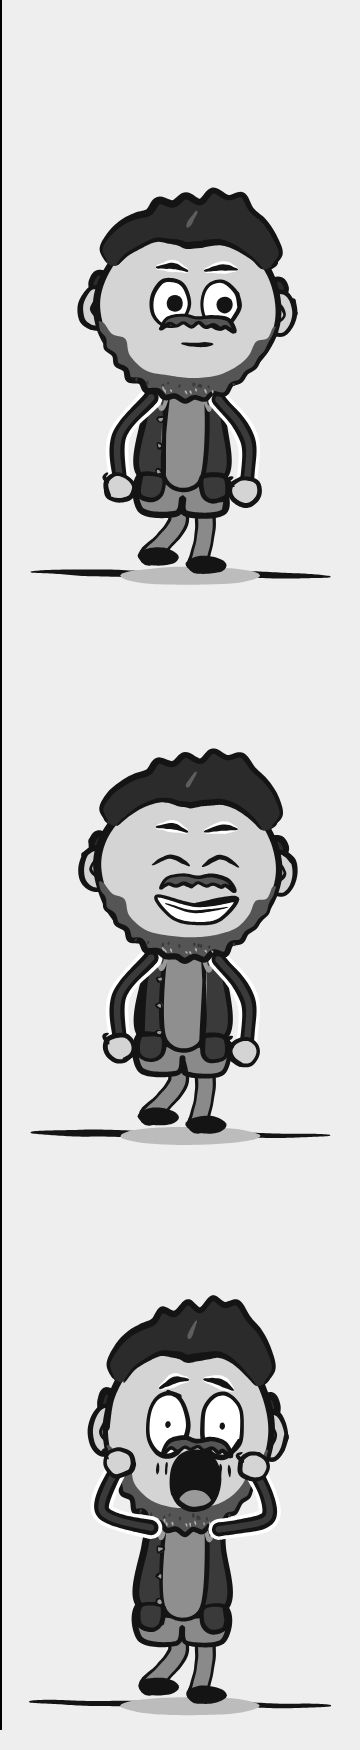
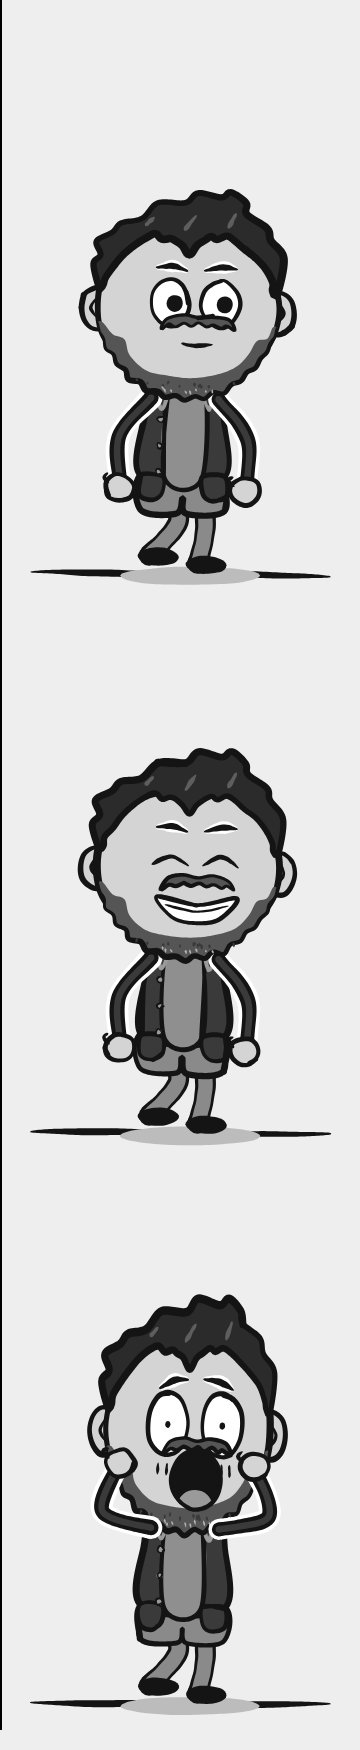
Squeex C: back to the fuller hair, shorter at the top corners, widow's peak
Built on the earlier fuller version: the top-left and top-right sit
lower and closer to the head, and the hairline dips to a widow's peak
in the middle. Only draft C's hair changed.

Claude-Session: https://claude.ai/code/session_01RKmGcx8q1V1rbfKyx6bNrn

diff --git a/web/cameos.js b/web/cameos.js
@@ -1119,37 +1119,17 @@ const Cameos = (() => {
     [[0.88, -0.24], [0.84, -0.5], [0.7, -0.66], [0.62, -0.56], [0.48, -0.74], [0.34, -0.6], [0.2, -0.78], [0.04, -0.62], [-0.12, -0.78],
      [-0.28, -0.62], [-0.44, -0.76], [-0.58, -0.58], [-0.7, -0.68], [-0.84, -0.5], [-0.88, -0.24]],
     [[[-0.5, -0.92], [-0.42, -1.1]], [[-0.08, -0.94], [0.0, -1.14]], [[0.34, -0.94], [0.44, -1.12]]]];
-  // C: receded crown of curls, growing out of sqBackHair (the band round the
-  // dome behind the head). The ends start on that band, so only the curly top
-  // and the hairline are inked and the crown never reads as a separate cap.
-  // The hairline is an M: deep bare notches over each brow, a small rounded lobe in the middle.
-  const SQ_CROWN = [[-0.91, -0.54], [-0.98, -0.7], [-0.88, -0.9], [-0.74, -1.04], [-0.6, -1.12], [-0.46, -1.18], [-0.36, -1.32],
-                    [-0.2, -1.28], [-0.06, -1.4], [0.1, -1.32], [0.24, -1.46], [0.4, -1.38], [0.56, -1.42], [0.68, -1.24],
-                    [0.82, -1.1], [0.94, -0.9], [1.0, -0.7], [0.91, -0.54]];
-  const SQ_LINE_M = [[0.8, -0.5], [0.68, -0.64], [0.52, -0.76], [0.36, -0.83], [0.22, -0.82], [0.12, -0.8], [0.05, -0.78],
-                     [0, -0.77], [-0.05, -0.78], [-0.12, -0.8], [-0.22, -0.82], [-0.36, -0.83], [-0.52, -0.76], [-0.68, -0.64], [-0.8, -0.5]];
-  const sqCrown = ctx => {
-    fill(ctx, hu([...SQ_CROWN, ...SQ_LINE_M]), SQ_HAIR, 1);
-    stroke(ctx, hu(SQ_CROWN), { w: 11, taper0: 0.3, taper1: 0.3 });   // the ends sit on the back band, outside the head outline
-    stroke(ctx, hu(SQ_LINE_M), { w: 11, taper0: 0.5, taper1: 0.5 });
-    stroke(ctx, hu([[-0.04, -1.0], [0.06, -1.2]]), { w: 7, taper0: 0.15, taper1: 0.35, color: SQ_LINE });
-  };
-  // C: hair behind the head, round the top of the dome under the crown and
-  // down to the ears at the sides. It breaks at the temples, so bare skin
-  // meets the head outline there.
-  const sqBackHair = ctx => {
-    for (const [a0, a1] of [[0.97, 1.12], [1.18, 1.82], [1.88, 2.03]]) {
-      const outer = [], inner = [], n = Math.round((a1 - a0) * 24);
-      for (let i = 0; i <= n; i++) {
-        const a = Math.PI * (a0 + (a1 - a0) * i / n), r = 1.07 + (i % 2 ? 0.035 : 0);   // a little curl in the edge
-        outer.push([Math.cos(a) * r, Math.sin(a) * r]);
-        inner.push([Math.cos(a) * 0.86, Math.sin(a) * 0.86]);
-      }
-      const band = hu([...outer, ...inner.reverse()]);
-      fill(ctx, band, SQ_HAIR, 1);
-      outline(ctx, band, { w: 10 });
-    }
-  };
+  const SQ_UP = [   // C: pushed up and back in three locks, the front one lifting off
+    // the corners sit low and close to the head (thinner hair there), the volume stays in the middle
+    [[-0.98, -0.2], [-1.06, -0.5], [-0.98, -0.62], [-1.03, -0.8], [-0.86, -0.92], [-0.76, -1.04], [-0.54, -1.1], [-0.36, -1.3],
+     [-0.06, -1.3], [0.08, -1.44], [0.34, -1.38], [0.44, -1.46], [0.6, -1.32], [0.62, -1.18], [0.84, -1.02], [0.88, -0.86], [1.03, -0.64], [0.98, -0.2]],
+    // receding hairline: a tall bare forehead with deep corners at the temples
+    // (cut back almost to the head outline, which they must stay inside), a
+    // widow's peak pointing down in the middle and thin hair down the sides
+    [[0.93, -0.24], [0.92, -0.34], [0.84, -0.5], [0.72, -0.64], [0.6, -0.74], [0.5, -0.84], [0.4, -0.9], [0.3, -0.86], [0.24, -0.9],
+     [0.16, -0.84], [0.08, -0.78], [0.0, -0.66], [-0.08, -0.78], [-0.16, -0.84], [-0.22, -0.86], [-0.3, -0.84], [-0.38, -0.91],
+     [-0.48, -0.86], [-0.6, -0.76], [-0.74, -0.62], [-0.84, -0.46], [-0.92, -0.34], [-0.93, -0.24]],
+    [[[-0.5, -1.0], [-0.4, -1.12]], [[-0.06, -0.96], [0.06, -1.16]], [[0.42, -1.0], [0.5, -1.2]]]];
   const sqHair = h => outlineHair(...h, SQ_HAIR, { lineColor: SQ_LINE });
   const sqEars = ctx => {
     for (const side of [-1, 1]) {
@@ -1218,7 +1198,7 @@ const Cameos = (() => {
       body: { legColor: '#8a8a8a',   // khakis, a mid grey so they don't read as bare legs, waist to ankle
         bottoms: (ctx, hipY) => { const b = [[-64, hipY - 12], [64, hipY - 12], [70, hipY + 50], [8, hipY + 56], [0, hipY + 30], [-8, hipY + 56], [-70, hipY + 50]];
           fill(ctx, b, '#8a8a8a', 1.2); outline(ctx, b, { w: 9 }); } },
-      head: head({ skin: SQ_SKIN, back: ctx => { sqBackHair(ctx); sqEars(ctx); }, hair: sqCrown, beard: sqBeard({ full: 0.12, flecks: true }), front: sqStache, browW: 9 }),
+      head: head({ skin: SQ_SKIN, back: sqEars, hair: sqHair(SQ_UP), beard: sqBeard({ full: 0.12, flecks: true }), front: sqStache, browW: 9 }),
       detail: overshirt }),
   };
 
